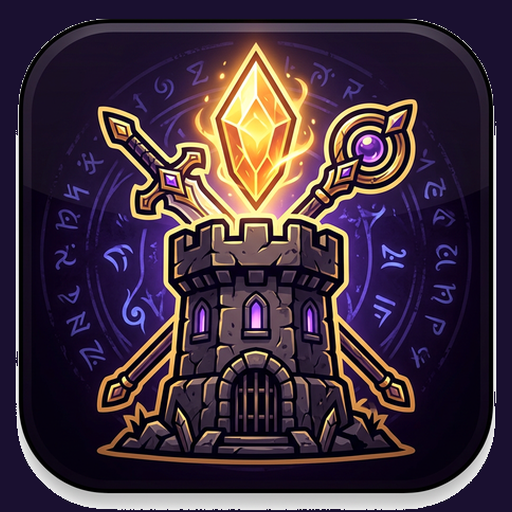
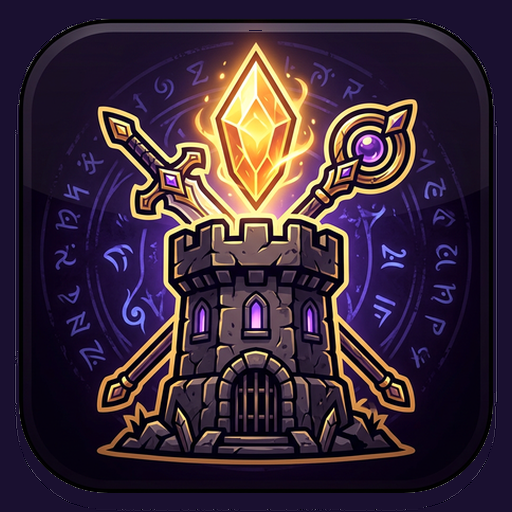
Fix: ikon full-bleed hapus bingkai terang 48px, matikan bootcheck default
- assets/icon.png: hapus bingkai putih/abu rounded-rect di tepi <48px
  dengan PIL: jika luminansi>105 dan akromatik (max-min<=30) ganti ke
  latar (26,16,48). Piksel jenuh kristal/emas/pedang tidak tersentuh.
  Verifikasi: 0 piksel terang-akromatik sisa di pita tepi 48px, 28
  piksel jenuh terjaga.

- mobile/bootcheck.py: should_show() hanya return
  os.environ.get('MYSTIC_BOOTCHECK')=='1' agar layar DIAGNOSTIK tidak
  muncul sebelum splash di pemasangan baru Android. diag.run_all
  tetap jalan senyap.

Changed region(s): [[0.0312, 0.25, 0.9688, 1.0]]

diff --git a/mobile/bootcheck.py b/mobile/bootcheck.py
@@ -39,14 +39,7 @@ def _flag_file():
 
 
 def should_show():
-    env = os.environ.get("MYSTIC_BOOTCHECK")
-    if env == "1":
-        return True
-    if env == "0":
-        return False
-    if os.path.exists(_flag_file()):
-        return False
-    return plat.IS_ANDROID
+    return os.environ.get("MYSTIC_BOOTCHECK") == "1"
 
 
 def _disable_forever():
